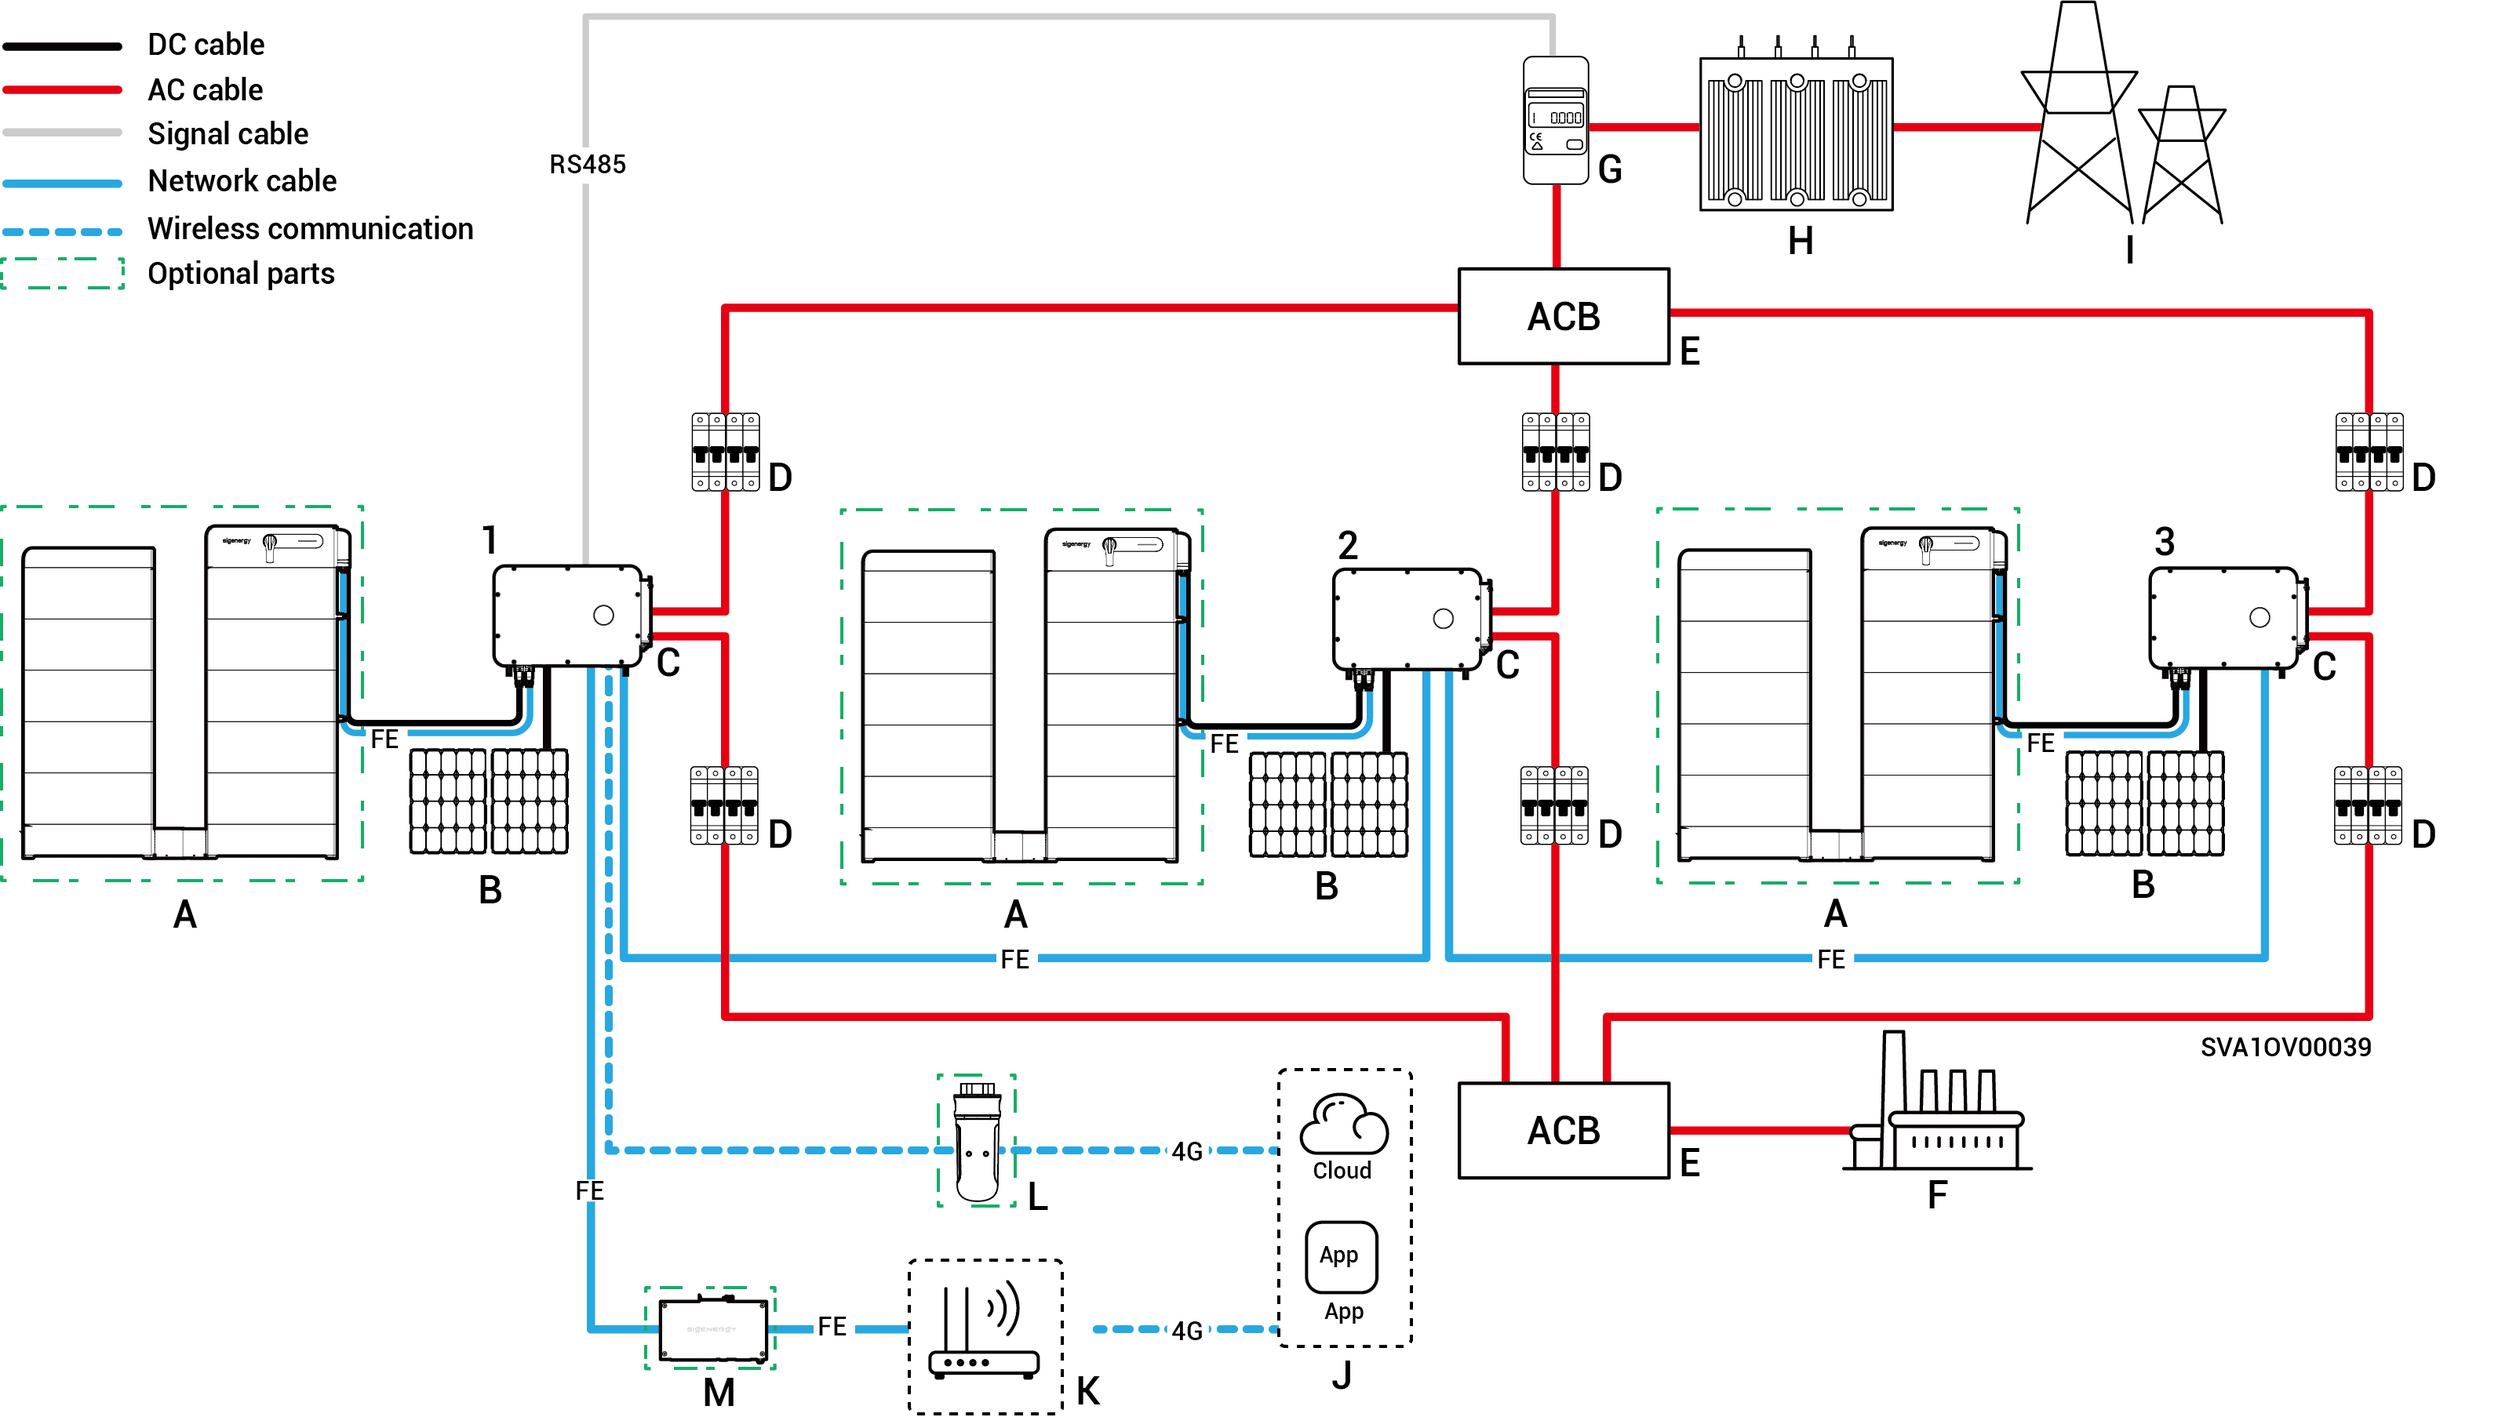
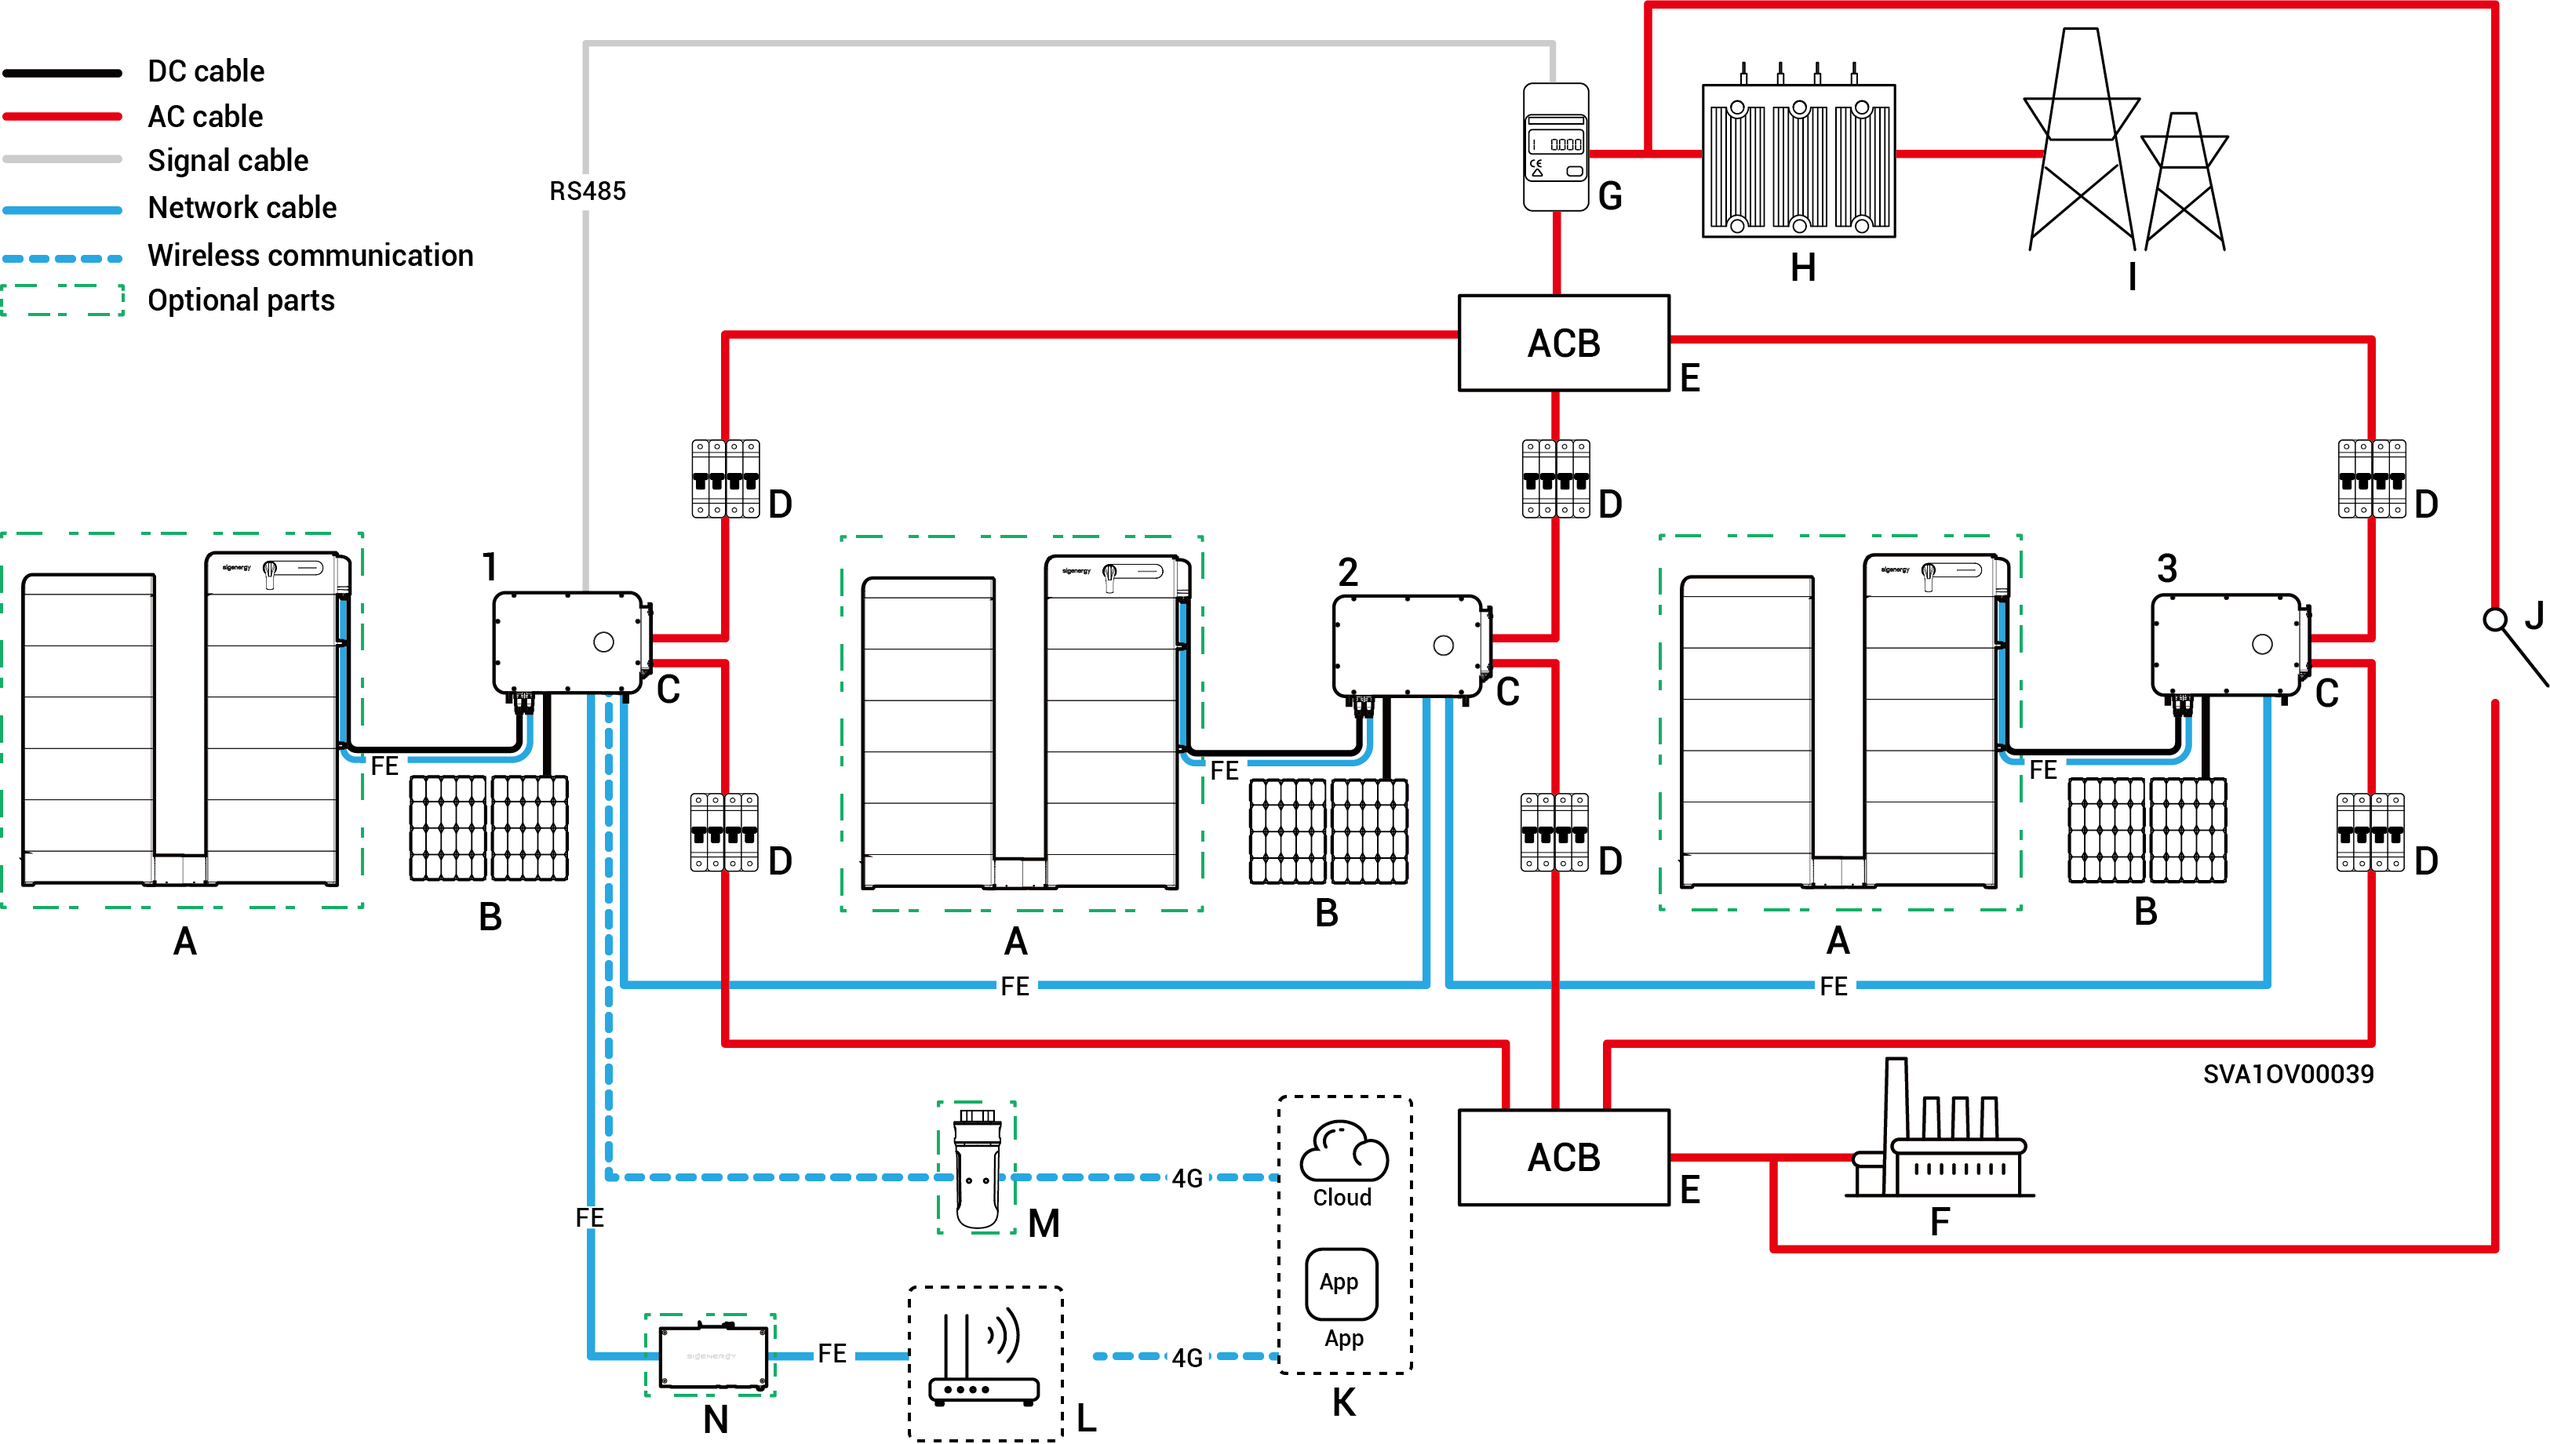
GITBOOK-32: No subject

Changed region(s): [[0.0, 0.0, 1.0, 1.0], [0.0, 0.031, 0.1866, 0.2169], [0.995, 0.4649, 1.0, 0.4958]]

diff --git a/introduction-to-energy-storage-system/system-wiring-introduction.md b/introduction-to-energy-storage-system/system-wiring-introduction.md
@@ -39,7 +39,7 @@
 
 <figure><img src="../.gitbook/assets/SVA1OV00039-EN.png" alt=""><figcaption></figcaption></figure>
 
-<table data-header-hidden><thead><tr><th valign="middle"></th><th valign="middle"></th><th width="159" valign="middle"></th><th width="147" valign="top"></th><th valign="top"></th></tr></thead><tbody><tr><td valign="middle">A. Battery</td><td valign="middle">B. PV panel</td><td valign="middle">C. Inverter</td><td valign="top">D. AC Switch (Depends on inverter power)</td><td valign="top">E. Combiner panel</td></tr><tr><td valign="middle">F. Backup load</td><td valign="middle">G. Power sensor</td><td valign="middle">H. Box-type substation</td><td valign="top">I. Power grid</td><td valign="top">J. Manual control switch</td></tr><tr><td valign="middle">K.mySigen</td><td valign="middle">L. Router</td><td valign="middle">M. CommMod</td><td valign="top">N. CommBridge</td><td valign="top"></td></tr></tbody></table>
+<table data-header-hidden><thead><tr><th valign="middle"></th><th valign="middle"></th><th width="159" valign="middle"></th><th width="147" valign="middle"></th><th valign="middle"></th></tr></thead><tbody><tr><td valign="middle">A. Battery</td><td valign="middle">B. PV panel</td><td valign="middle">C. Inverter</td><td valign="middle">D. AC Switch (Depends on inverter power)</td><td valign="middle">E. Combiner panel</td></tr><tr><td valign="middle">F. Box-type substation</td><td valign="middle">G. Power grid</td><td valign="middle">H. Manual control switch</td><td valign="middle">I. Backup load</td><td valign="middle">J. mySigen</td></tr><tr><td valign="middle">K.Router</td><td valign="middle">L. CommMod</td><td valign="middle">M. CommBridge</td><td valign="middle">N. </td><td valign="middle"></td></tr></tbody></table>
 
 {% include "https://app.gitbook.com/s/LphsQhUSDX9PgTtjDfX5/~/reusable/ufcMPIm1Yd46Pj7Ir1ce/" %}
 
